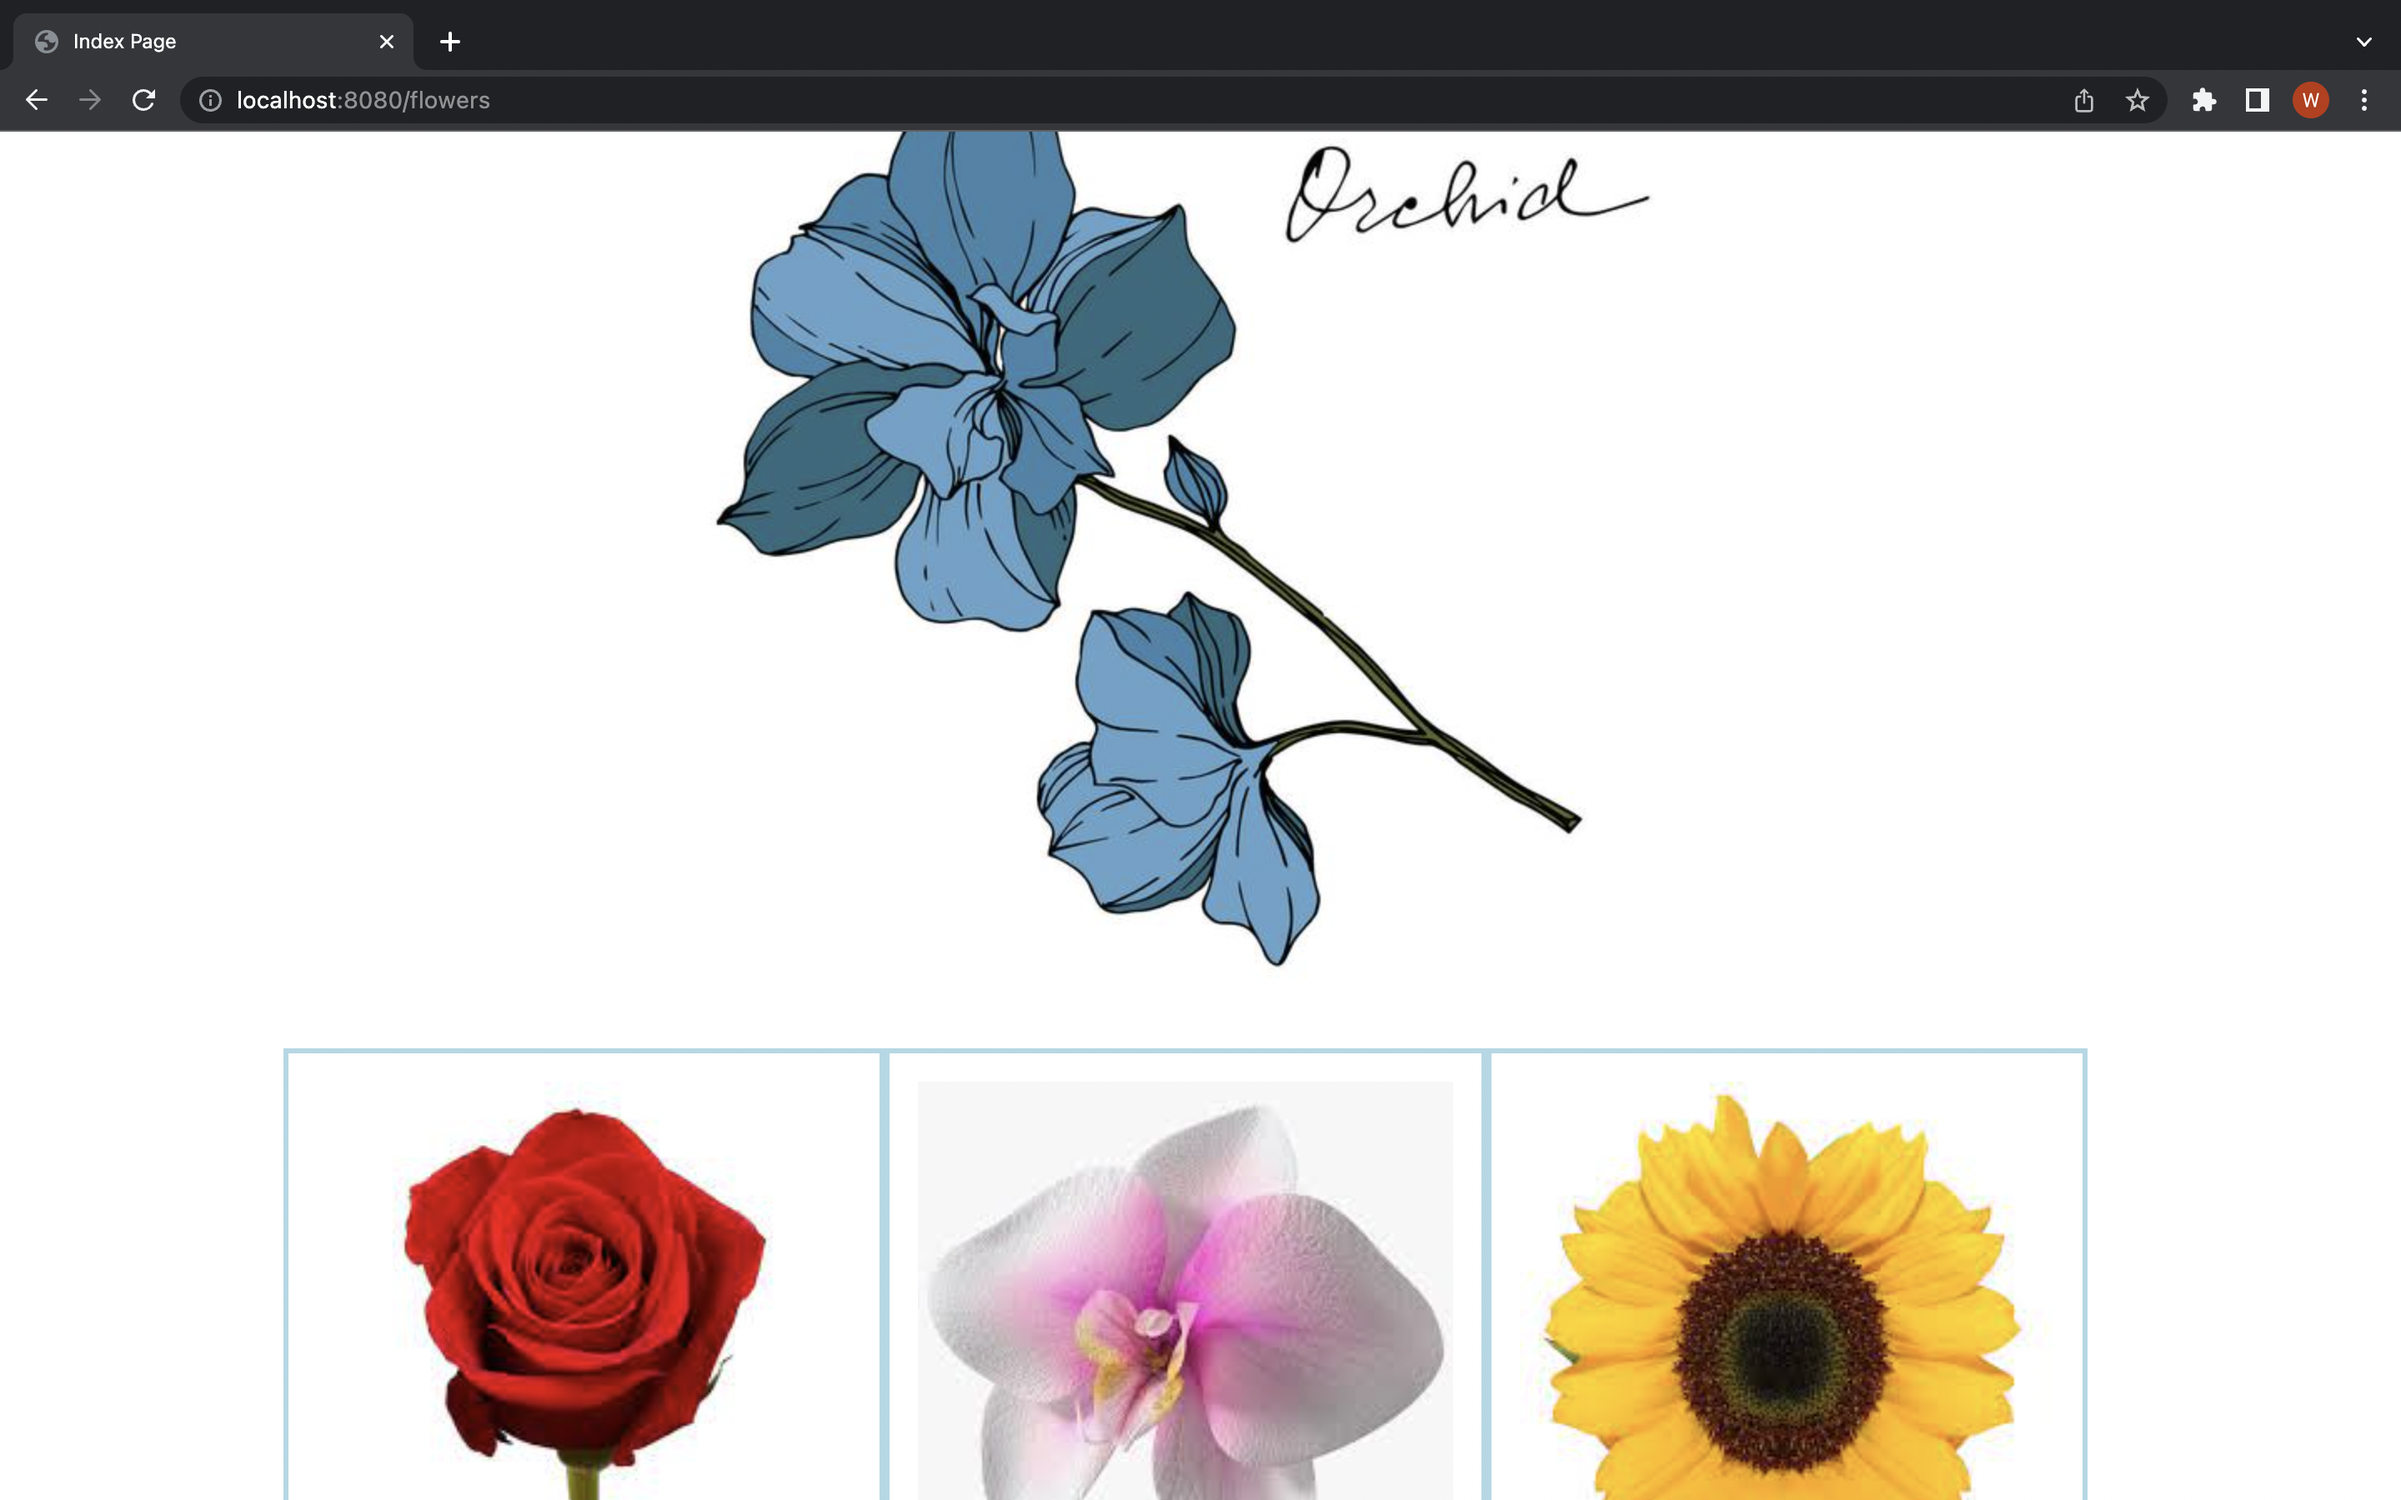
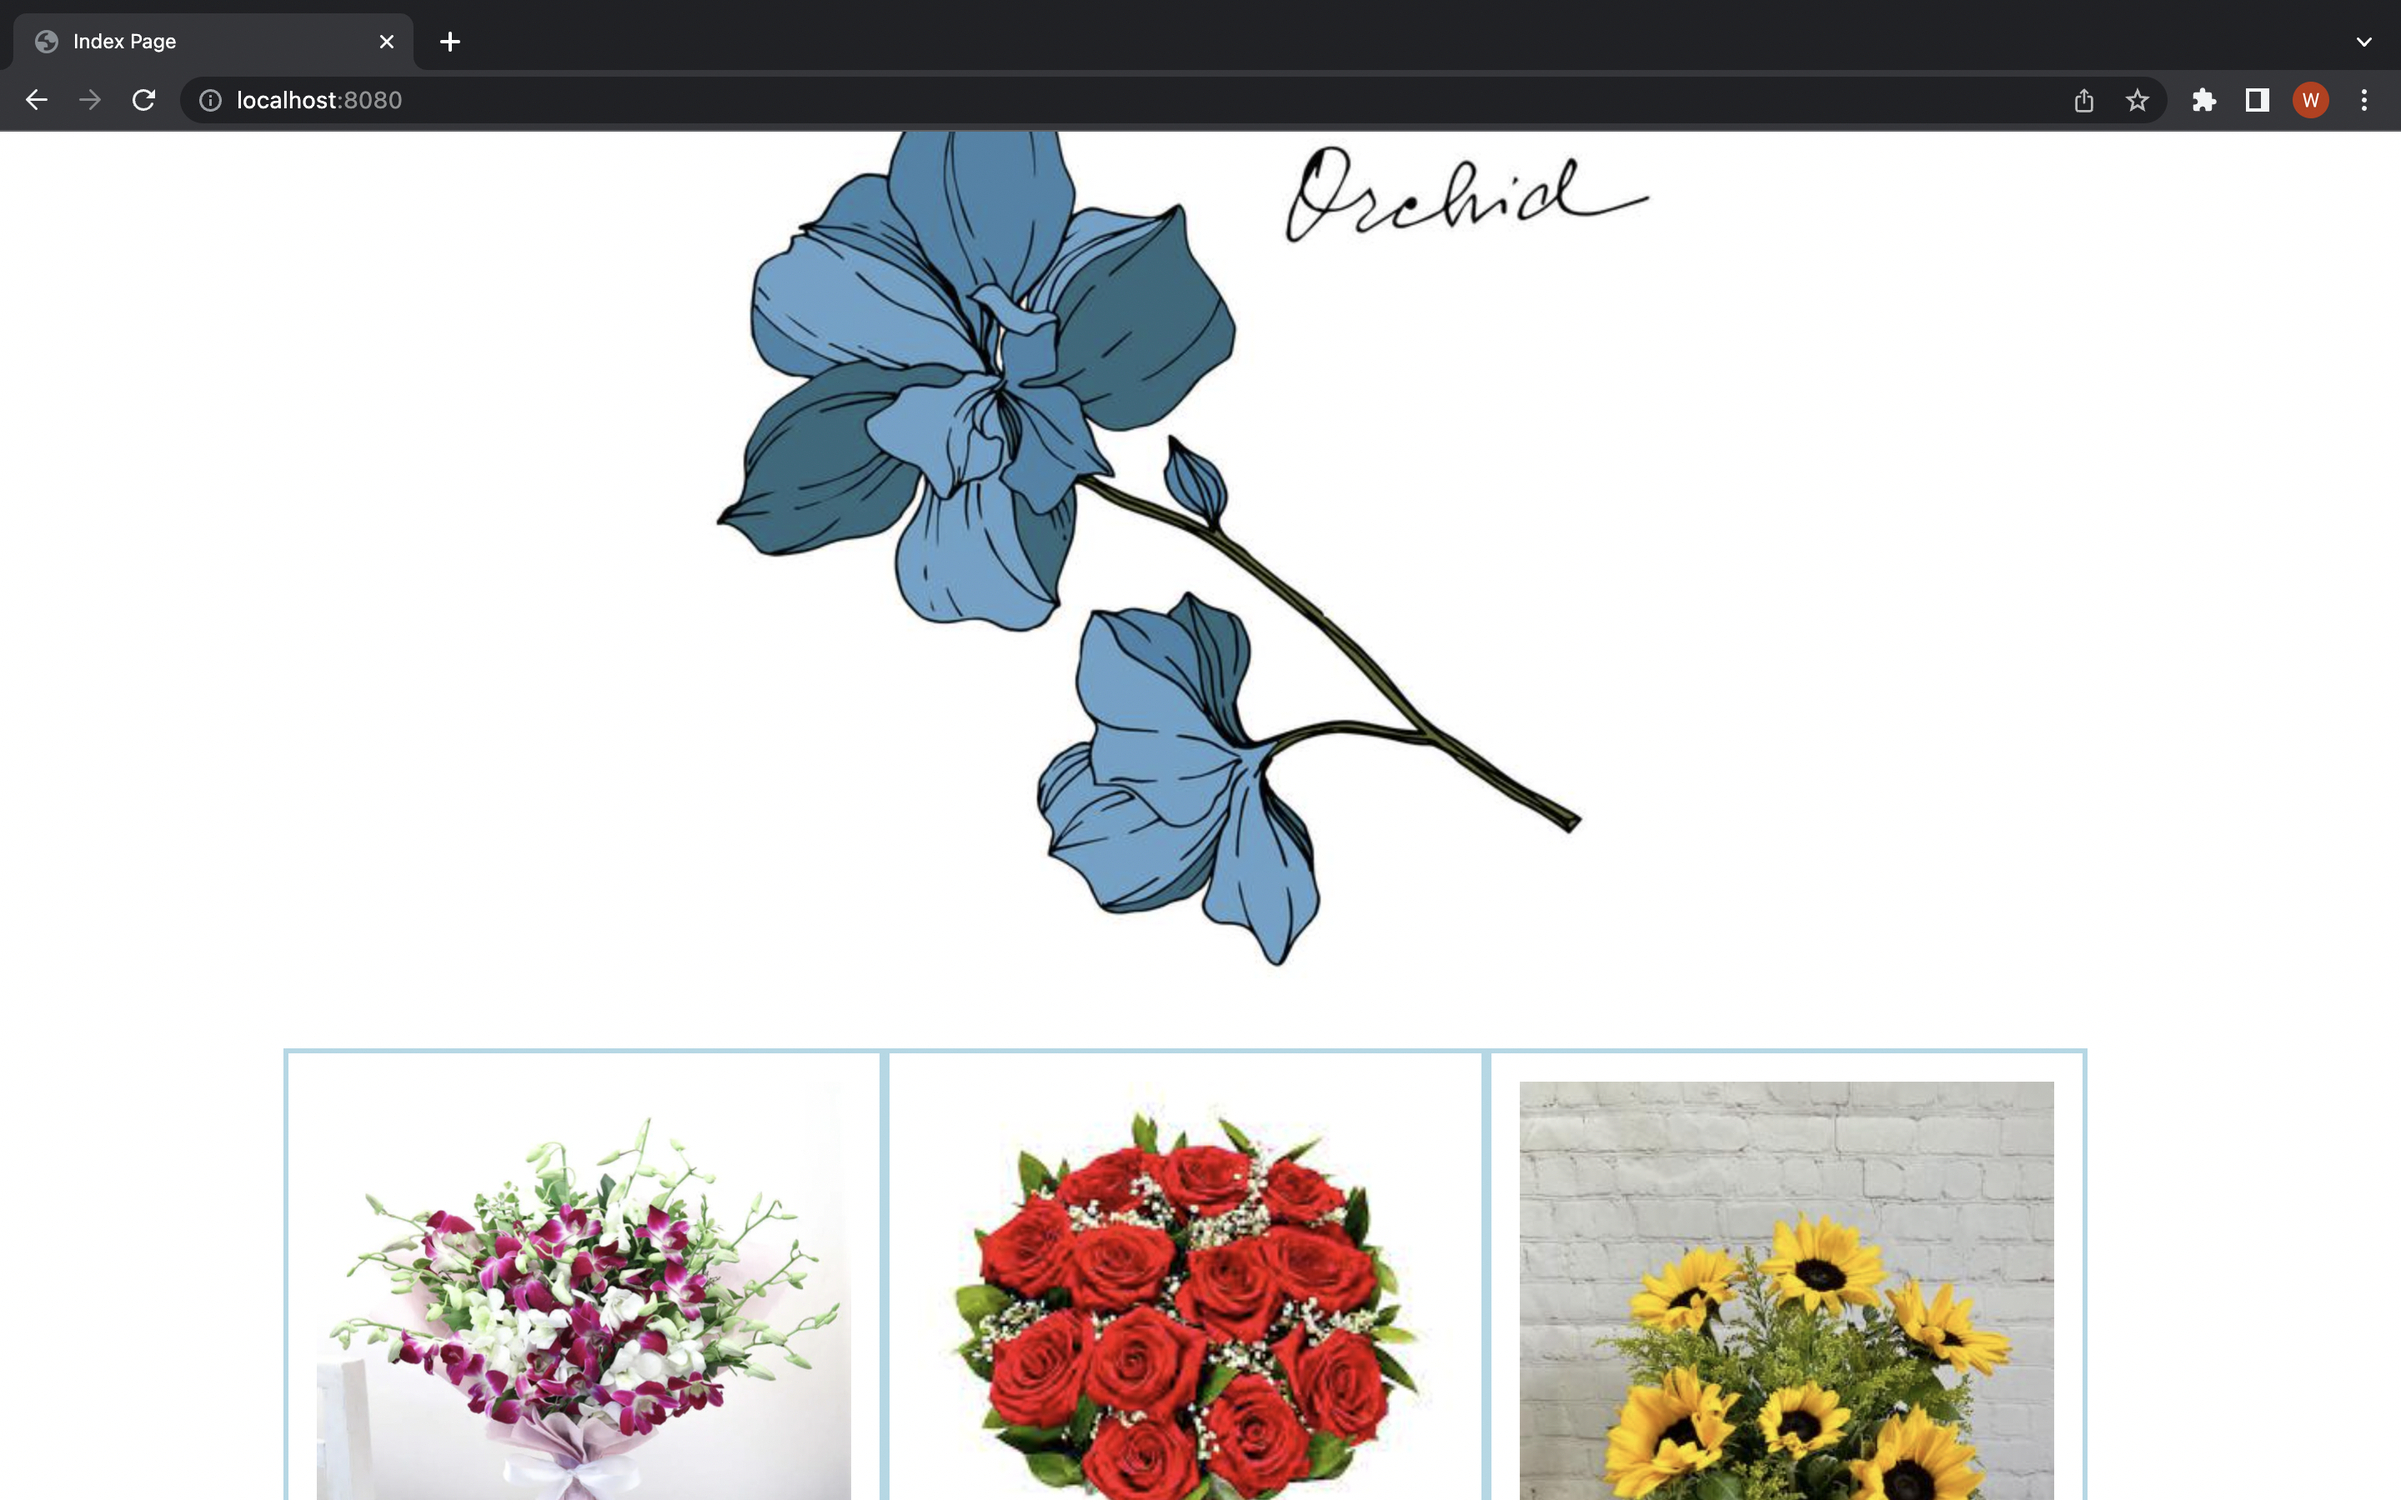
fifth commit

Changed region(s): [[0.375, 0.7156, 0.875, 1.0], [0.125, 0.7156, 0.375, 1.0]]

diff --git a/readme.md b/readme.md
@@ -1,5 +1,5 @@
  ## Blue Orchid
- My Project is a simple website that uses CRUD. The goal of the website is to allow users to buy different flowers available. The goal is is to be able to update, delete, and buy flowers.
+ My Project is a simple website that uses CRUD. The goal of the website is to allow users to buy different flower bouquets. The goal is is to be able to update, delete, and buy flowers.
 
 
 ## Routes
@@ -40,9 +40,9 @@ CSS
 
 
 ## Screenshots 
-![Website Screenshot](./Images/Website1.png)
+![Website Screenshot](./Images/website1.png)
 ![Website Screenshot](./Images/website2.png)
-![Website Screenshot](./Images/Website3.png)
+![Website Screenshot](./Images/website3.png)
 ![Website Screenshot](./Images/website4.png)
 ![Website Screenshot](./Images/website5.png)
 
